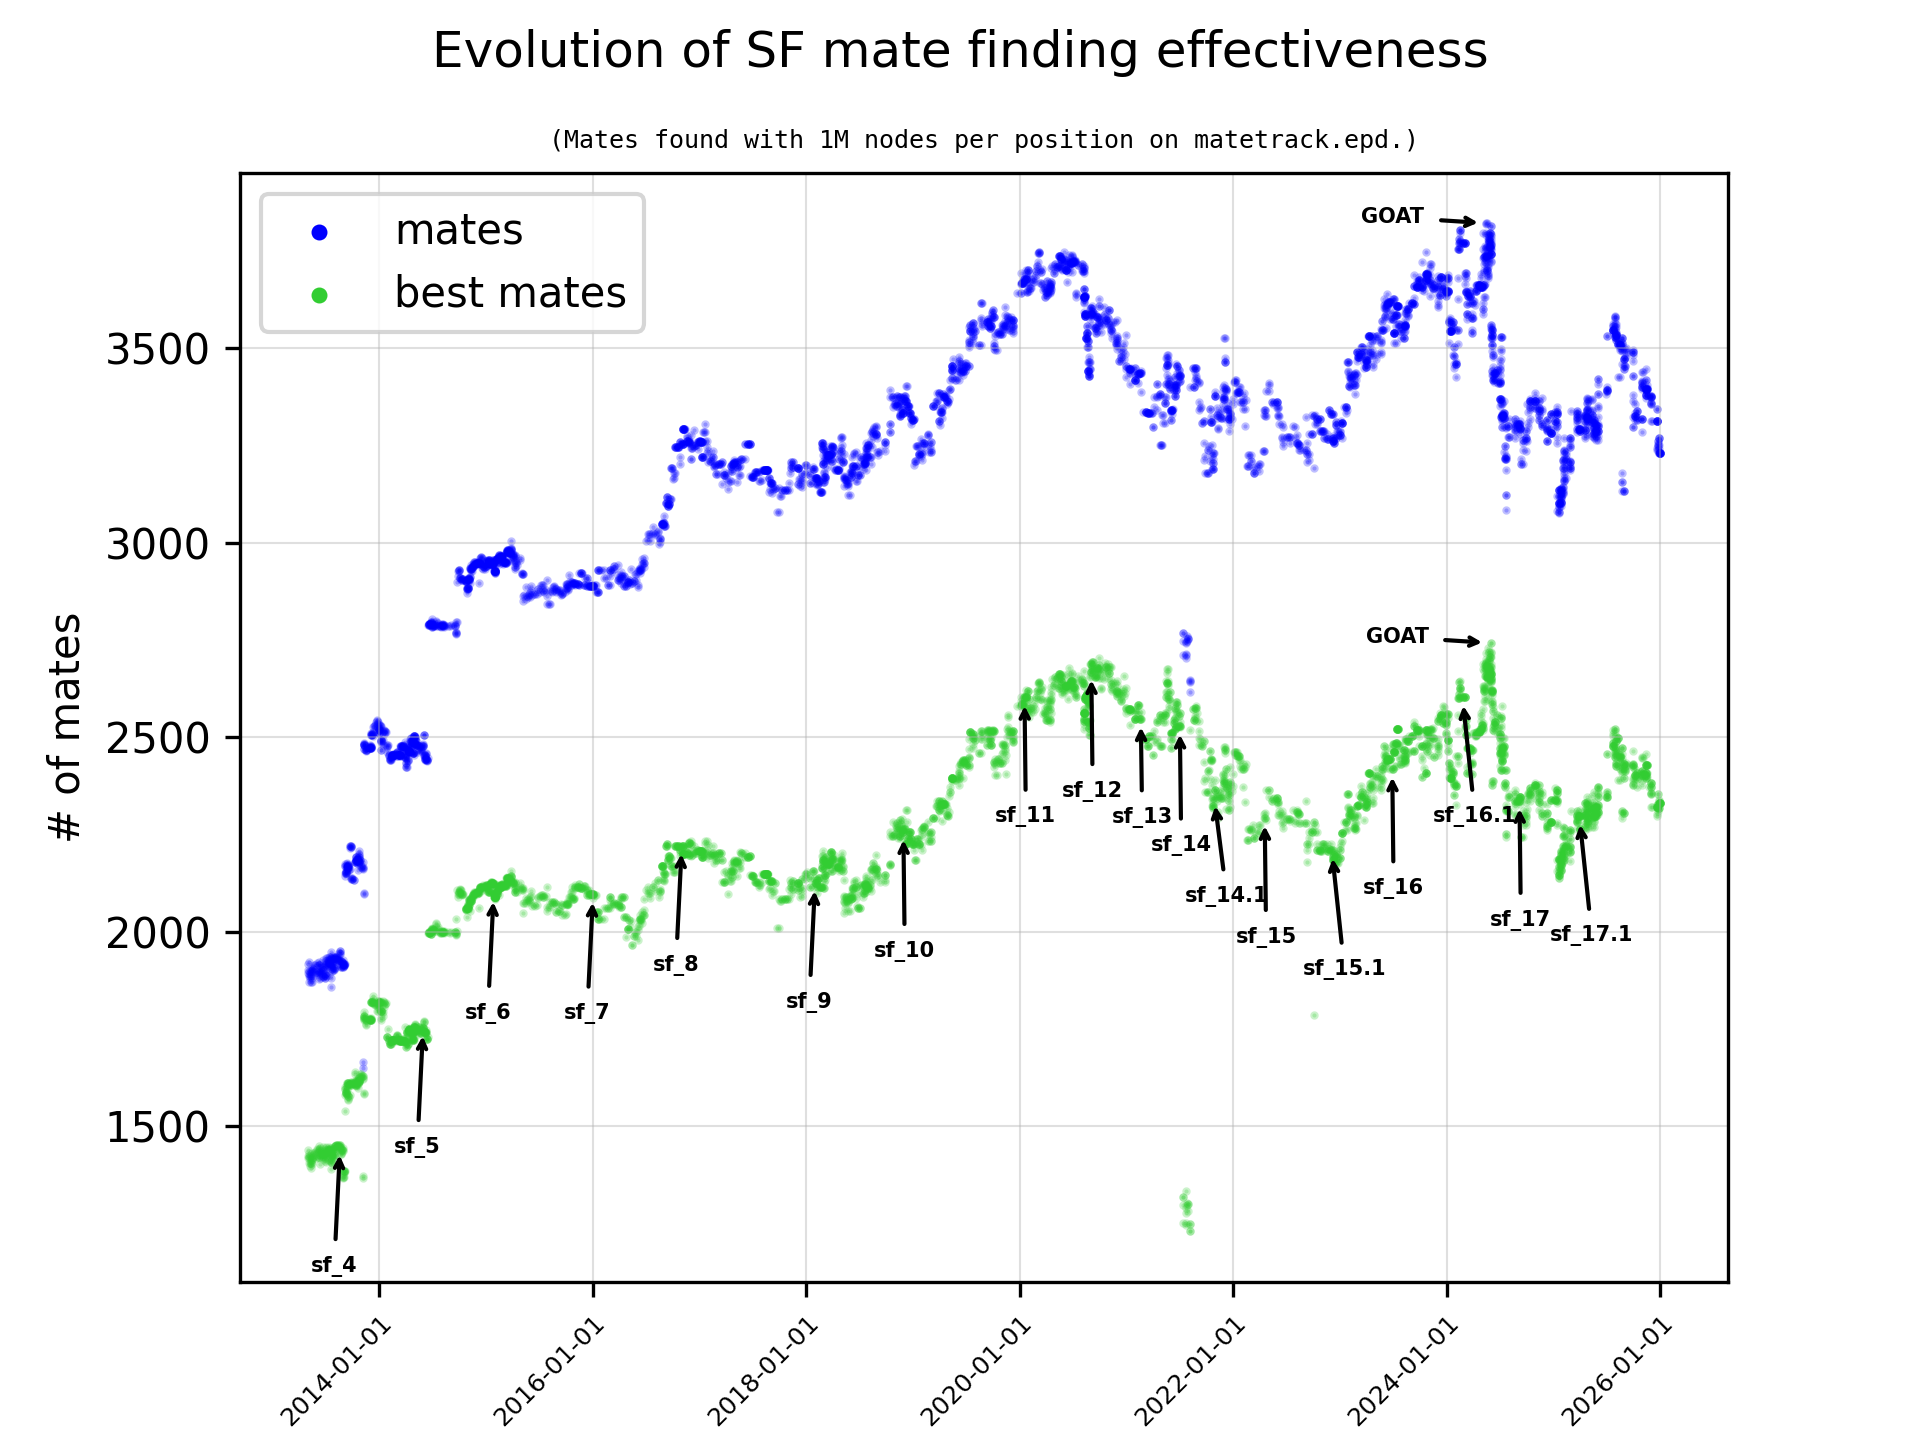
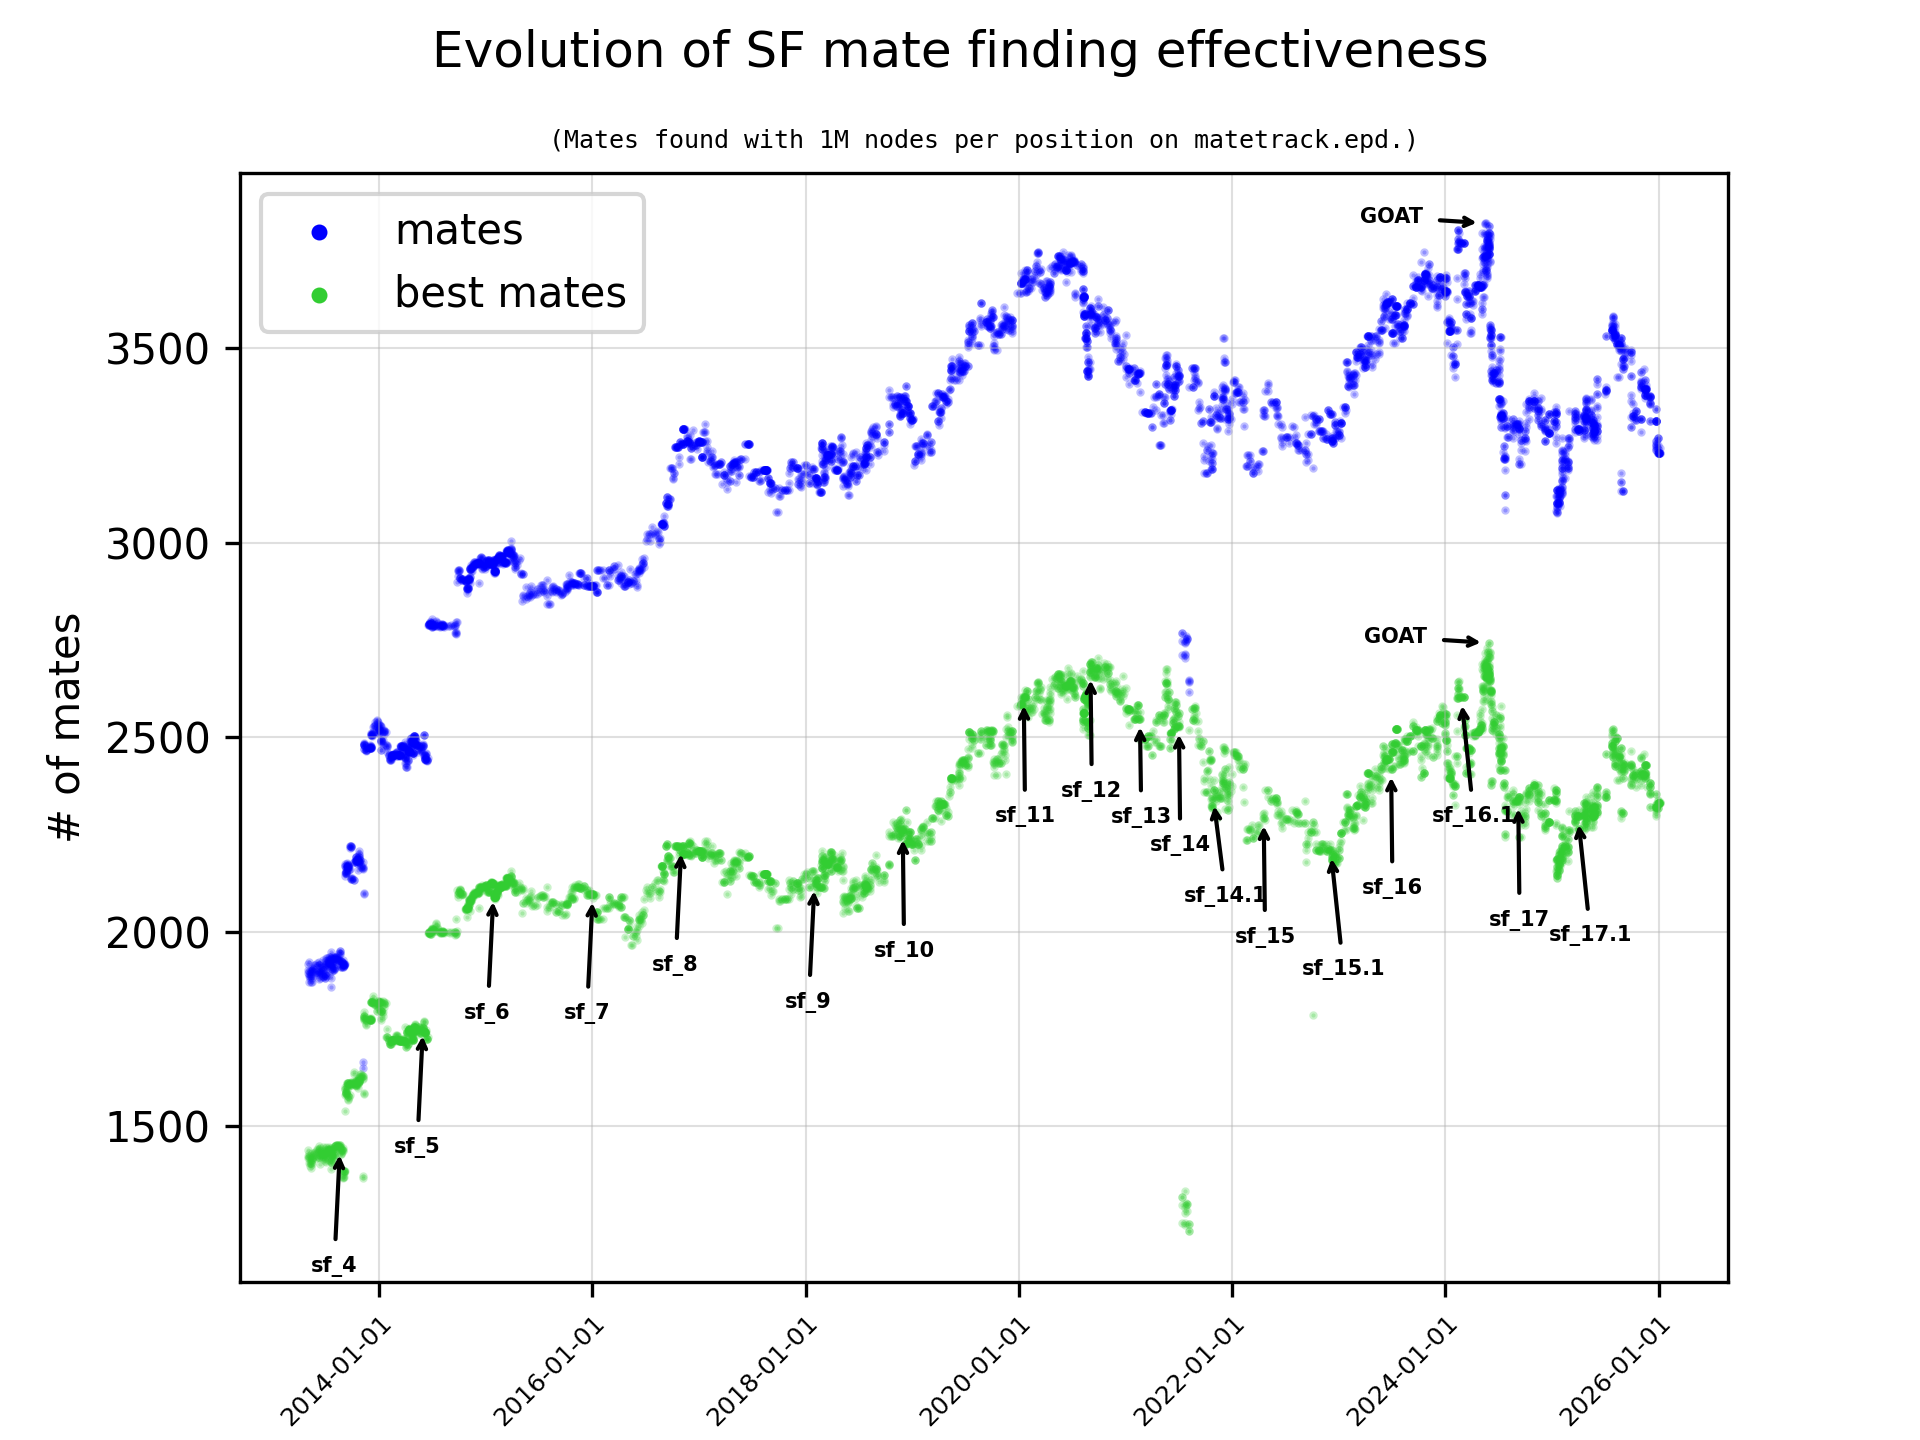
Update results

diff --git a/plotdata.py b/plotdata.py
@@ -59,9 +59,8 @@ class matedata:
             )
             ax.grid(alpha=0.4, linewidth=0.5)
             # increase the size of the two dots in the legend
-            # legendHandles will cease to work from Matplotlib v3.9.0: legend_handles may then work
             lgnd = ax.legend()
-            for handle in lgnd.legendHandles:
+            for handle in lgnd.legend_handles:
                 handle.set_sizes([8])
             # now reduce opacity for the dots in the plot itself
             bmate.set_alpha(0.25)
